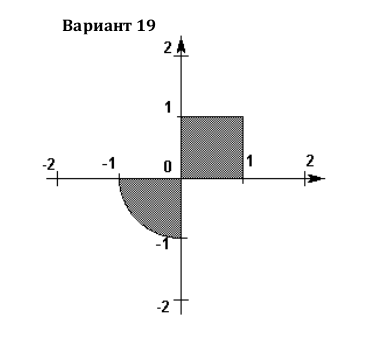
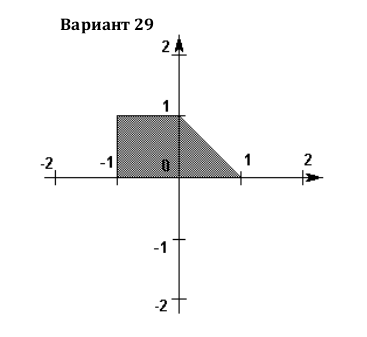
Var 29

diff --git a/src/point.c b/src/point.c
@@ -4,12 +4,14 @@
 #include <stdbool.h>
 #include "include/point.h"
 
+
 #define X_ARG_POSITION 1
 #define Y_ARG_POSITION 2
 
 #define PW(x) (powf(x, 2))
 
-static float calcRadius(const DecartPoint_t *point);
+static float calcPointRadius(const DecartPoint_t *point);
+static float calcMaxRadius(const DecartPoint_t *point);
 
 DecartPoint_t *readPoint(const char **argv) {
   DecartPoint_t *point = (DecartPoint_t *) malloc(sizeof(DecartPoint_t));
@@ -21,27 +23,38 @@ DecartPoint_t *readPoint(const char **argv) {
 }
 
 bool checkPoint(const DecartPoint_t *point, const float radius) {
-  if (point->x > 0 && point->y > 0 && (point->x + point->y) <= 2) {
-    return true;
+  if (point->y < 0) {
+    return false;
   }
-  else if (point->x < 0 && point->y < 0) {
-    float point_radius = calcRadius(point);
-
-    if (point_radius <= radius) {
+  else if (point->x < 0) {
+    if ((fabsf(point->x) + point->y) <= 2) {
       return true;
     }
+  }
+  else if (point->x > 0) {
+    float pointRadius = calcPointRadius(point);
+    float maxRadius = calcMaxRadius(point);
 
-    return false;
+    printf("%f - %f\n", pointRadius, maxRadius);
+
+    if (pointRadius <= maxRadius) {
+      return true;
+    }
   }
-  else {
-    return false;
-  }
+
+  return false;
 }
 
 void printPoint(const DecartPoint_t *point) {
   printf("Point coords:\t(%0.2f, %0.2f)\n", point->x, point->y);
 }
 
-static float calcRadius(const DecartPoint_t *point) {
+static float calcPointRadius(const DecartPoint_t *point) {
   return sqrtf(PW(point->x) + PW(point->y));
+}
+
+static float calcMaxRadius(const DecartPoint_t *point) {
+  float pointAngle = atanf(point->y / point->x);
+
+  return sinf(M_PI_4) / cosf(pointAngle - M_PI_4);
 }

diff --git a/README.md b/README.md
@@ -2,7 +2,7 @@
 
 ## Определение попадания точки в область
 
-### Вариант 19
+### Вариант 29
 
 ![task](assets/task.png)
 
